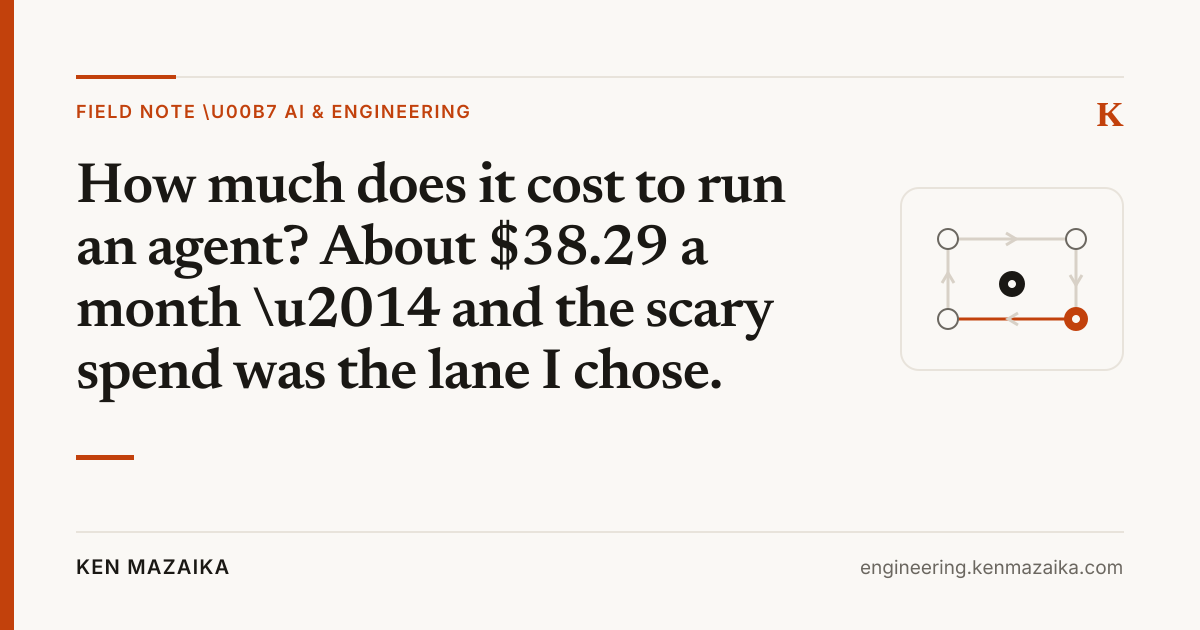
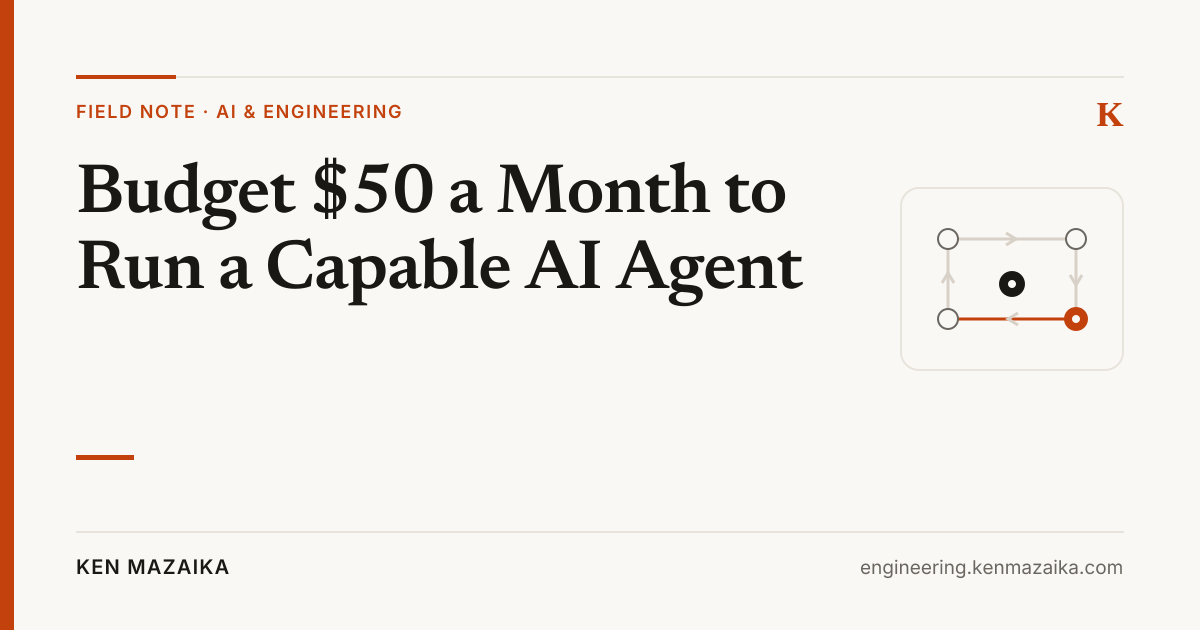
Two cost posts, two spines: 175 = getting-started/production env; cost = $50/mo recurring; cross-reference sections; start-page split

Changed region(s): [[0.0617, 0.2413, 0.6783, 0.6333], [0.1542, 0.1508, 0.4008, 0.2111]]

diff --git a/src/content/blog/my-175-ai-agent-rig.md b/src/content/blog/my-175-ai-agent-rig.md
@@ -1,104 +1,126 @@
 ---
-title: "How Much Does It Really Cost to Run an AI Agent? My $175 Rig, Measured"
-description: "I run my AI agent 24/7 on a used $175 computer. The real bill: $175 once for hardware, $20/month for a subscription I already had, ~$10-15 in routine metered months, $60.49 in the month I actually measured — plus ~$21/month for search. Here's the honest breakdown and what the agent does to earn it."
-seoTitle: "What Running an AI Agent 24/7 Actually Costs: A Real Measured Bill"
-socialTitle: 'My $175 AI Agent Rig: What It Really Costs'
+title: "The $175 Production Box I Use to Run an AI Agent 24/7"
+description: "The useful part of my AI agent setup is not the hardware. It is a cheap machine that stays awake, keeps its work, runs on a schedule, and lets me teach a job once instead of repeating it forever."
+seoTitle: "How to Run an AI Agent 24/7 on a $175 Used Computer"
+socialTitle: "You Don't Need a GPU to Run an AI Agent 24/7"
 pubDate: 'Aug 22, 2026'
-updatedDate: 'Aug 30, 2026'
+updatedDate: 'Oct 5, 2026'
 related:
   - title: 'My Default Model Stack for AI Agent Work'
     url: '/blog/my-default-model-stack-for-ai-agent-work/'
+  - title: 'What It Costs to Run a Capable AI Agent Each Month'
+    url: '/blog/cost-to-run-an-agent/'
   - title: 'Which AI Model Should You Run for Agent Work?'
     url: '/blog/best-ai-model-for-agent-work/'
 ogCategory: 'Field Note · AI & Engineering'
 showPopup: true
 faq:
-  - question: "How much does it cost to run an AI agent?"
-    answer: "A used $175 computer for the hardware (one-time), plus a $20/month subscription (that I already had), plus roughly $10-15/month in routine metered model usage — or $60.49 in the month I actually measured. Search adds about $21/month. Hardware is one-time; the variable is how much real work you do."
+  - question: "What hardware do I need to run an AI agent 24/7?"
+    answer: "For my cloud-model workflows, a used Dell OptiPlex with 16GB of RAM and Linux is enough. The important requirement is that the machine stays awake and connected, not that it has a GPU."
+  - question: "What makes an AI agent setup production-grade?"
+    answer: "For this kind of personal agent, production-grade means availability and reliability: an always-on host, a filesystem it can use, durable memory, scheduled jobs, and a dependable way to reach you. It does not mean expensive hardware."
   - question: "Do I need a GPU or local models to run an AI agent?"
-    answer: "No, for this kind of work. The agent runs 24/7 on a cheap always-on box and uses cloud models. Local inference and GPU cost are excessive when a used computer plus cheap per-token cloud models do the job. Availability matters more than horsepower."
-  - question: "What's the honest gap between a routine month and a real month?"
-    answer: "A routine month is about $10-15 in metered model usage. A real month — new models, vision work, a research binge — is $60.49. Both are real. If your budget needs one number, use the bigger one and be pleasantly surprised."
-  - question: "Is a $175 rig really enough?"
-    answer: "Yes, if the agent runs on cloud models and just needs to be awake. I tried a cheaper thin client first and it struggled; people run agents on Raspberry Pis. $175 is where it worked for me."
-  - question: "What can a cheap 24/7 agent actually do?"
-    answer: "In my case: daily apartment scouting, Airbnb expense logging, dictation-to-drafts, a Sunday newsletter from Reddit/Twitter research, and one-off research. Each is teach-once, then it just runs."
-  - question: "Is an autonomous agent loop worth it?"
-    answer: "Generally no — unfettered loops are AI going in circles. What works reliably is narrow loops with well-defined goals and triggers (cron, scheduled, when-X-then-Y) that grind to a decision and then hand off to a human."
+    answer: "No, not for the work described here. My agent uses cloud models, so the local machine mostly provides uptime, storage, scheduling, and access to tools."
+  - question: "What can a cheap always-on AI agent actually do?"
+    answer: "Mine has scouted apartments, logged Airbnb expenses, turned dictation into drafts, assembled a Sunday industry digest, and handled one-off research. Each workflow started as one useful job with a narrow trigger and a human decision at the end."
+  - question: "How should I get started with an AI agent?"
+    answer: "Pick one repeated task you already understand, teach the agent how you judge a good result, save the instructions, and run it on a narrow trigger. Add a schedule only after the manual version works."
 ---
 
-I run my AI agent 24/7 on a used $175 computer. The real bill: **$175 once for hardware, $20/month for a subscription I already had, and metered usage that ran about $10-15 in routine months — but $60.49 in the month I actually measured**, plus about $21/month for search. Here's the honest breakdown and what the agent does to earn it.
+If you want to run an AI agent for real work, start with a cheap computer that never goes to sleep and one task worth teaching it. That is enough to get into production.
 
-> **Setup note:** I measured this setup on Hermes in August 2026. I've since started moving the same rig and workflows to OpenClaw. The hardware and bills below are unchanged; once I have enough real OpenClaw usage to compare honestly, I'll publish that as the next chapter.
+My agent runs 24/7 on a used Dell OptiPlex I bought on Facebook Marketplace for $175. It has 16GB of RAM, runs Linux, and has no GPU. I started these workflows on Hermes and have since been moving them to OpenClaw, but the useful part of the setup has stayed the same: the box is always there, its files survive between conversations, and scheduled work runs whether my laptop is open or not.
 
-Until I signed a lease, every morning at 8am I got an email with one to three apartments worth a look. Each one is already filtered by school district, commute time, budget, bedrooms, and whether the photos show decent light. When I pay the cleaner for the Airbnb, I send one line and it lands in Google Sheets. My LinkedIn content starts as dictated rambling and comes back as drafts.
+That is what I mean by production-grade. Not a rack of servers. Not local inference. Availability and reliability for the work I actually ask it to do.
 
-All of it runs on a used Dell OptiPlex I bought on Facebook Marketplace for $175.
+## The first requirement is availability
 
-I'm not an AI researcher. I'm just an engineering manager. During the period measured here, the agent was Hermes. It sat in my house for months, and I mostly talked to it over Telegram.
+My agent used to live on my laptop. That worked until I closed the lid.
 
-## The real bill
+When the laptop slept, the agent stopped replying. Morning jobs did not run. A request I sent while I was away waited for me to reopen the computer. The model was capable, but the system around it was unreliable.
 
-The hardware is the smallest line: $175, once. The monthly cost has two parts — a subscription and metered usage — and here's the honest version, estimate and measurement side by side:
+An agent that sleeps when you close the lid is a chat session with extra steps.
 
-| Line | Cost | Notes |
-|---|---|---|
-| Hardware, one time | $175 | Used Dell OptiPlex, 16GB RAM, Linux, Facebook Marketplace |
-| ChatGPT subscription | $20/mo | ~80% of my inference. Paid it before the agent existed. |
-| Metered models, routine use | ~$10-15/mo | DeepSeek Flash workhorse, Xiaomi MiMo second. Cheap per token. |
-| Search | ~$21/mo | The agent's web research. Real usage, last 30 days. |
-| Measured 30-day reality | $60.49 | My actual workload. Not an estimate, not a benchmark. |
+The first upgrade was not a smarter model. It was giving the agent a machine whose job was to remain available. That changed the relationship. I could send it something from my phone, expect a scheduled job to run at 8am, or let a longer research task finish without keeping my work laptop awake on a desk.
 
-The gap between the last rows is the honest part of this post. A routine month is cheap. A real month — new models, vision work, a research binge — costs more. If your budget needs one number, use the bigger one and be pleasantly surprised.
+For my workflows, uptime matters more than horsepower. The models run in the cloud. The local computer coordinates the work, keeps the files, calls tools, and waits for the next trigger. Those are modest computing requirements, but they are real operational requirements.
 
-Then there's search. The agent researches constantly — Reddit threads, pricing pages, sources for its Sunday newsletter — and that runs through a search API at about $21 for 30 days of real usage.
+## The $175 production box
 
-That's the estimate. Here's the measurement.
+The machine is a used Dell OptiPlex with 16GB of RAM and Linux. I paid $175 for it once.
 
-In [the battery post](/blog/best-ai-model-for-agent-work/), eleven models reconstructed my actual bill from my own usage data, and the ones that got the accounting right converged on $60.49 for 30 days. That number is my real usage — not the cost of running the test.
+No Mac Mini. No GPU. No local models. I am not arguing that those things are useless. I am saying they do not solve the problem I had. My problem was that the agent disappeared when my laptop went to sleep.
 
-Which models, and why, is [its own post](/blog/my-default-model-stack-for-ai-agent-work/). The one-line version: a frontier subscription for polish, a cheap workhorse for volume.
+I tried to spend even less first. I bought a Wyse thin client for a fraction of the price, fought with the Linux Mint install, and eventually gave up. People run agents on Raspberry Pis, so $175 is not a minimum. It is the point where this became boring and dependable for me.
 
-## Why a used box
+That is a better standard for starter hardware than maximum theoretical performance: can I install the system, leave it running, replace it cheaply, and stop thinking about it?
 
-The agent used to live on my laptop, and that worked fine until I closed the lid. When the lid closed, the agent stopped replying. An agent that goes to sleep every time you shut a laptop isn't much of an agent.
+The OptiPlex clears that bar. It is common hardware, easy to find used, and powerful enough to coordinate cloud-model work. If it dies, I can replace the machine without redesigning the whole setup. The agent's durable work lives in files and configuration, not in some magical property of this particular computer.
 
-The lesson wasn't that I needed more horsepower. It's that I needed availability: a machine that is on 24/7 and answers whenever I send it something. A used OptiPlex with 16GB of RAM and Linux does that for $175.
+## What production-grade means for an agent
 
-No Mac Mini. No GPU. No local models. For the work I do, the cost of local inference and GPUs is excessive. The cheap box isn't a compromise — the agent just needs to be awake.
+For a personal agent doing real work, I need five things:
 
-I didn't start at $175, either. I tried a Wyse thin client first, at a fraction of the price, and it struggled with the Linux Mint install until I gave up on it. I'm sure this can be done cheaper; people run agents on Raspberry Pis. The $175 OptiPlex is where it worked for me.
+1. **An always-on host.** The machine stays awake, connected, and ready to receive work.
+2. **A filesystem it owns.** Drafts, source material, scripts, receipts, and intermediate work need a stable place to live.
+3. **Schedules and triggers.** Cron can start a job at 8am or every Sunday without waiting for me to remember it.
+4. **Durable memory.** Decisions and instructions have to survive beyond one model conversation. I keep them in files the agent can read again.
+5. **A way to reach me.** The system needs a dependable channel for requests, results, and failures. I have mostly used Telegram and Discord.
 
-When I posted the setup, one comment said a cheap rig isn't a flex if you're not running local models. Fair. But you don't need local models for this work, and availability matters more than horsepower. The price was never the point.
+None of those requirements calls for a GPU. They call for a small amount of infrastructure and the discipline to keep the important state outside the model's context window.
 
-## What the agent actually does
+This is a deliberately bounded definition of production-grade. I am not running a bank, and I am not claiming a used desktop has enterprise redundancy. I am running personal workflows where a missed job is annoying, files need to persist, and the agent should answer when I contact it. The setup is reliable enough for that job.
 
-**Apartment scouting.** Every morning at 8am, the agent pulled new rental listings and filtered them: school district, commute time (it called the Google Maps API to estimate my drive), bedrooms, budget, and the lighting in the photos. About 120 listings became one to three in an email, all places that looked better than where I live now. The hard part of apartment hunting was never booking the viewing — it was finding the gems in the pile. That's the part I gave away.
+## Teach it once, then schedule it
 
-One person on that thread said they burned $50 in tokens trying to get an agent to scrape Zillow and got nothing for it. The lesson, I think, is that scouting is filtering, not scraping. My agent doesn't crawl the whole site. It narrows the firehose to the few listings worth my morning. The agent curates. I decide.
+The hardware keeps the agent awake. The teach-once habit makes it useful.
 
-That search is over now. I signed a lease on one of the top picks from those emails. The loop didn't choose the apartment — I did. It just made sure the good ones never got lost in the pile.
+When I give the agent a repeated job, I do not want to re-explain the whole process every time. I run the task with it, correct the places where its judgment differs from mine, and save the instructions as a skill or workflow. Once the manual version works, I give it a narrow trigger: a message, a new item to process, or a cron schedule.
 
-**Expense logging.** I run an Airbnb. "I paid the cleaner $160" becomes a row in Google Sheets. Five minutes of friction I never deal with again.
+That is the production pattern:
 
-**Content.** I set up a Wispr dictation topic: I talk, it transcribes, formats, and pushes back on my ideas, and I repurpose the output. Same with LinkedIn infographics and social cards — I hand it an idea plus an example of the style, we go back and forth a few times, and it ships something good. It's output I'd never produce by hand, because the effort was never worth it.
+1. Pick one job you already do repeatedly.
+2. Show the agent the inputs and what a good result looks like.
+3. Correct its mistakes while the workflow is still manual.
+4. Save those decisions in durable instructions.
+5. Add a narrow trigger and a clear stopping point.
 
-**The Sunday email.** A skill called last-30-days surfaces the most-upvoted and most-controversial posts on Reddit and Twitter from the past month, and the agent writes up what the industry is actually arguing about. It lands Sunday mornings. I curate it lightly and it goes out as my newsletter. I would never read all those threads myself. Now I don't have to.
+The important word is *narrow*. “Help me manage my life” is not a job. “At 8am, find new apartment listings, apply these filters, and send me the best three” is a job. The trigger is obvious, the output is inspectable, and I remain responsible for the decision.
 
-**One-off research.** Before running a book promo with a specific vendor, I had the agent crawl the 18 or so Reddit posts about them and normalize everyone's experience into one table: who succeeded, who failed, what they'd do differently. It didn't change my decision much. It changed my confidence in the decision — I'd seen all the sources, not just the few that happened to surface.
+## What runs on the box
 
-## What doesn't work: loops
+The workflows matter because they are receipts that this setup does real work. They are not a catalog of everything an agent could theoretically do.
 
-The idea going around the internet is the autonomous loop: the agent finds the bugs, files the tickets, implements, opens the PR, reviews itself, ships, and moves on. In practice, unfettered loops are AI going in circles — building a bunch of trash, whether that's content nobody reads or code somebody has to maintain.
+**Apartment scouting.** Until I signed a lease, the agent checked new rental listings every morning at 8am. It filtered about 120 listings by school district, commute time, budget, bedrooms, and the light visible in the photos. One to three places reached my inbox. I signed a lease on one of its top picks. The agent did not choose my apartment; it kept the good options from disappearing into the pile.
 
-Narrow loops with well-defined goals can work. What works reliably for me is triggers: cron jobs, scheduled emails, when X happens, do Y. The agent grinds until it reaches a decision, then stops and hands it to a human. The human bottleneck isn't something to optimize away. It's where judgment lives.
+**Expense logging.** I run an Airbnb. I send “I paid the cleaner $160,” and the agent turns it into a row in Google Sheets. It is a small workflow, which is exactly why it works: one input, one destination, no interpretation theater.
 
-## The unlock
+**Dictation into content.** I talk through an idea in a dedicated dictation topic. The agent transcribes it, shapes the argument, pushes back on weak parts, and turns it into material I can revise. The value is not autonomous publishing. It is removing the blank page and preserving the thought while it is fresh.
 
-Teach it to do something once. Save it as a skill or a cron job. Let it run on a schedule. Stop thinking about it.
+**The Sunday digest.** A saved workflow finds the most-upvoted and most-controversial discussions from the previous month on Reddit and Twitter, then drafts a digest of what the industry is arguing about. It lands on Sunday morning. I curate it before it becomes a newsletter.
 
-Everything above is some version of that pattern, plus the occasional message from me. Each job is teach-once, and then it just runs.
+**One-off research.** Before I ran a book promotion with a vendor, I had the agent collect roughly 18 Reddit posts and normalize the experiences into a table: who succeeded, who failed, and what they would do differently. The research did not make the decision for me. It let me make the decision after seeing the evidence in one place.
 
-None of these things are life-changing individually. But together, it's a layer of operational infrastructure that makes your life measurably less tedious. The $175 setup replaced a handful of apps along the way.
+Each workflow follows the same shape: teach the judgment, preserve the instructions, run from a narrow trigger, and put a human at the end.
 
-$175 once. $20 a month for a subscription I already had. Maybe $10-15 in metered usage in routine months, $60.49 in the measured one, and about $21 a month for search. That's the whole bill for an agent that answers every time I send it something.
+## Where autonomy breaks down
+
+The seductive version of agent work is the unfettered loop: find a problem, plan the work, execute it, review it, and keep going forever. In my experience, that produces motion faster than it produces value.
+
+An unconstrained agent can make content nobody reads or code somebody has to maintain. Giving the loop more time does not fix a vague goal. It just lets the mistake compound unattended.
+
+Narrow loops work better. A scheduled job starts from a known trigger, works toward a defined artifact, stops at a boundary, and hands the result to me. Apartment scouting ends with a short list. Research ends with a table. Dictation ends with a draft. The human bottleneck is not a defect in these workflows. It is where judgment lives.
+
+The important startup receipt here is the box: $175, once. You can begin without a GPU, local models, or a larger hardware budget. The recurring bill is a separate question, and it has its own post.
+
+## What does it cost to run every month?
+
+Setting up is one-time; running it is a monthly line. **What does it cost to run an agent month to month?** For me, about **$50 a month** — a subscription plus a metered workhorse, with an optional premium lane I can decline. Where that number comes from, and the two things that move it, is its own post: [How Much Does It Cost to Run a Capable AI Agent Each Month?](/blog/cost-to-run-an-agent/).
+
+## Start with one useful loop
+
+Do not begin by designing an all-purpose autonomous employee. Buy or repurpose a machine you can leave on, install the agent harness, and choose one repeated task whose output you already know how to judge.
+
+Run it manually first. Write down every correction that should apply next time. Save those corrections with the workflow. Only then put it on a schedule.
+
+That is enough to get started: a box that stays awake and a habit of teaching work once. The production system is not the computer by itself. It is the computer, the durable instructions, the trigger, and the moment where the agent stops and gives the work back to you.

diff --git a/src/content/blog/cost-to-run-an-agent.md b/src/content/blog/cost-to-run-an-agent.md
@@ -1,100 +1,113 @@
 ---
-title: "How Much Does It Cost to Run an AI Agent? My 30-Day Receipt"
-description: "My normal setup cost $50.93: a $20 ChatGPT premium subscription plus $30.93 of metered DeepSeek. Another $84.07 was optional premium experimentation. Here is what each number measures, which work belongs on each meter, and how I keep the bill bounded."
-seoTitle: "How Much Does It Cost to Run an AI Agent? A 30-Day Cost Breakdown"
-socialTitle: "How much does it cost to run an agent? About $50.93 a month — and the scary spend was the lane I chose."
+title: "How Much Does It Cost to Run a Capable AI Agent Each Month? About $50"
+description: "My 30-day receipt says the durable budget is $50.93: $20 for plan access and $30.93 for a metered workhorse. The expensive month starts when premium routing or unattended jobs escape their own limits."
+seoTitle: "How Much Does It Cost to Run an AI Agent Each Month?"
+socialTitle: "Budget $50 a Month to Run a Capable AI Agent"
 pubDate: 'Oct 5, 2026'
 updatedDate: 'Oct 5, 2026'
 ogCategory: 'Field Note · AI & Engineering'
 layoutVariant: harness
 heroImage: ../../assets/headers/cost-to-run-an-agent-masthead-totem.png
 related:
-  - title: "How Much Does It Really Cost to Run an AI Agent? My $175 Rig, Measured"
-    url: "/blog/my-175-ai-agent-rig/"
   - title: "Which AI Model Should You Run for Agent Work? 11 Models, 5 Real Tasks, Receipts"
     url: "/blog/best-ai-model-for-agent-work/"
+  - title: "The $175 Box I Use to Run an AI Agent 24/7"
+    url: "/blog/my-175-ai-agent-rig/"
   - title: "Hermes vs OpenClaw: Why I Moved My Main Workflow (Test Data Included)"
     url: "/blog/hermes-vs-openclaw/"
 faq:
-  - question: "How much does it cost to run an AI agent per month?"
-    answer: "My normal operating setup costs $50.93 over a 30-day window: a $20 ChatGPT premium subscription plus $30.93 of metered DeepSeek. Optional premium experimentation added $84.07 of prepaid Grok credit on top."
+  - question: "How much should I budget to run a capable AI agent each month?"
+    answer: "I would budget about $50 a month for capable, heavy personal use. My normal operating setup was $50.93: a $20 ChatGPT premium subscription plus $30.93 of metered DeepSeek usage."
   - question: "Why did 1.75 billion tokens cost only $30.93?"
-    answer: "Because most of it was reused context. The DeepSeek meter shows 1.75 billion tokens across 14,347 requests, and cache reads cost a fraction of fresh input — so a huge token count stayed a small bill."
-  - question: "Is OpenClaw free to run?"
-    answer: "The harnesses are free and open source; the cost is the models behind them. In this setup the normal route ran about $50.93 a month, including the ChatGPT plan I already had."
-  - question: "What's the biggest hidden cost of running an agent?"
-    answer: "Scheduled jobs and retry loops. Cron produced 222 million tokens across 167 runs and 19 jobs, and three jobs were 77% of that. A loop that fails without advancing its cursor just buys the same failure again."
-  - question: "How do you keep agent costs from getting out of control?"
-    answer: "Three controls: turn auto-recharge off, cap loops and advance failures, and review unattended jobs monthly by tokens and by whether anyone read the output."
+    answer: "Most of the traffic was cached context. Cache reads cost a fraction of fresh input, so the raw token total looked enormous while the metered bill stayed small."
+  - question: "What makes an AI agent bill exceed $50 a month?"
+    answer: "In my month, the two movers were an optional premium lane and unattended work. Grok experimentation added $84.07, while scheduled jobs and retry loops could keep spending after the output stopped being useful."
+  - question: "How do you keep an agent bill bounded?"
+    answer: "Turn auto-recharge off, cap loops and advance failures, and review unattended jobs monthly by tokens and by whether anyone read the output."
 ---
-The short answer is **$50.93 a month** for my normal operating setup: my **$20 ChatGPT premium subscription** plus **$30.93 of metered DeepSeek use**. I already had the ChatGPT subscription, so if you run the same plan, the number that changes for you is the **$30.93** meter. I use the premium model until it rate-limits, then fall back to DeepSeek V4 for the rest.
+Budget **about $50 a month** to run a capable AI agent. My normal operating setup cost **$50.93**: a **$20 ChatGPT premium subscription** plus **$30.93 of metered DeepSeek use**.
 
-I also used **$84.07 of prepaid Grok credit** in an optional experimental lane. Put the three lines together and the observed usage is **$135.00** — subscription access, metered use, and prepaid credit, each on its own basis.
+That is the ongoing number I would put in a budget. It paid for heavy personal use: **19 published posts, 183 images, 142 PDFs, 285 sessions, and 8,658 tool calls** from **September 5 through October 5, 2026**. The point is not that every month will land on the same 93 cents. The point is that $50 is a credible operating expectation when routine work stays on a plan-plus-workhorse route.
 
-These are my numbers, from **September 5 through October 5, 2026**. They cover model and subscription usage; hosting, storage, monitoring, and my time sit outside them.
+I spent more than that during the same window. An optional Grok lane added **$84.07**, bringing observed model and subscription usage to **$135.00**. That did not disprove the $50 budget. It showed exactly what sits outside it: premium work I chose to route separately.
 
-The surprising part: **1.75 billion tokens were not the expensive part.** The bill moved when I opted into premium experimentation, or left a job running after it stopped producing anything useful.
+My evidence is one operating window, not a universal price; fresh-context workloads, heavier output, or different provider pricing will move the number.
 
-## My 30-day agent cost
+## Budget $50.93 for the recurring month
 
-| Cost line | Basis | Amount | What it means |
+The useful monthly model has two lines, not one blended total:
+
+| Cost line | Billing basis | Monthly budget | Job |
 |---|---|---:|---|
-| ChatGPT premium subscription | Monthly access cost | $20.00 | The plan I already had; counted here because it powers the setup |
-| DeepSeek V4 | Metered use in this window | $30.93 | The pay-per-token fallback I switch to at the plan's rate limit |
-| **Normal operating setup** | Plan + metered use | **$50.93 / month** | The number to count when the plan belongs in your agent budget |
-| Grok experimental lane | Provider usage against prepaid credit | $84.07 | Optional image/design, search, reasoning, and prompt experimentation |
-| **Observed model/subscription usage** | Three lines, three bases | **$135.00** | Accounting total across mixed bases |
+| ChatGPT premium | Subscription access | $20.00 | Primary route until the plan rate-limits |
+| DeepSeek V4 | Metered usage | $30.93 | Workhorse fallback for the remaining volume |
+| **Normal operating setup** | **Plan + metered workhorse** | **$50.93** | **The recurring number** |
 
-The window included 19 published posts, 183 images, 142 PDFs, 285 sessions, and 8,658 tool calls — the workloads behind these period receipts. I report the period rather than a per-post figure, because other work shared the same receipts.
+I already paid for the ChatGPT plan before I attached agent work to it. I still count it. “I already had the subscription” is useful cash-flow context, but it is not honest cost accounting if the plan powers the setup.
 
-## Which meter applies to your work?
+The $30.93 line is the one that expands and contracts with use. The $20 line buys access. Together they make a durable budget because the subscription handles the first part of the workload and a cheap metered model catches the overflow. I do not need every task to run on the most expensive model available; I need each task to land on a route good enough to finish it.
 
-Price the route, not the agent. I run all of this on OpenClaw and Hermes; the harnesses are free and open source, so the bill is the models behind them. My normal route and premium lane were different work decisions, so I budget them separately: each is its own billing stream (a "meter").
+This post is about the bill that comes back next month, not the one-time setup.
 
-| If the work looks like this | Budget it from |
-|---|---|
-| Routine work on the ChatGPT premium plan, falling back to DeepSeek at the rate limit | The normal-setup line above — then inspect your token mix |
-| Polished-image experiments, plus web/X search or reasoning routed to Grok | A separate premium budget; use a cheaper model for good-enough work |
-| Scheduled jobs and retries | A multiplier on whichever route they use — cap and audit it |
+## Why 1.75 billion tokens were not the cost center
 
-## Why 1.75 billion tokens cost $30.93
+The DeepSeek meter recorded **1.75 billion tokens across 14,347 requests** and charged **$30.93**. The token count looks like the headline. It was not the cost center.
 
-The normal route was cheap because it was mostly reused context.
+Most of that traffic was cached context. An agent repeatedly carries instructions, conversation history, and working material forward. When the provider can reuse that context, a cache read costs a fraction of fresh input. The model still reports a large number of tokens because it processed a large context, but the bill reflects how those tokens were served.
 
-DeepSeek served **1.75 billion tokens across 14,347 requests**. Most of that was cached context — the agent carries forward what the model has already seen, and a cache read costs a fraction of fresh input — so a huge token count stayed a small bill.
-
-If you are on a metered provider that bills cached context cheaply, inspect your token mix before you react to the token total. Fresh context on every turn, more output, or a different provider means a different bill.
+That distinction matters more than the raw total. “How many tokens did the agent use?” is not enough to forecast the next bill. I need to know how many were fresh input, cached input, and output, then apply the provider's price to each category.
 
 ![DeepSeek platform usage for the trailing 30 days](/post-assets/cost-to-run-an-agent/deepseek-usage.png)
-*The DeepSeek meter, straight from the platform dashboard.*
+*The DeepSeek meter for the September 5–October 5 window.*
 
-## What made the observed month expensive
+This is why the normal route can absorb substantial work and still stay near $50. Cached context makes repeated, context-heavy agent work cheaper than the top-line token count suggests. If I force fresh context into every turn, ask for much more output, or switch providers, I should expect a different result.
 
-The premium lane was optional experimentation on top of ordinary agent work. I was mainly chasing more polished images and design, plus web/X search and reasoning. Cheaper models handle good-enough work; I reached for Grok when I wanted the extra finish.
+## Price the route, not the model
 
-| Grok line item | 30-day provider usage |
-|---|---:|
-| Prompt text | $38.50 |
-| Web search (5,600 calls) | $27.87 |
-| Other | $7.84 |
-| Reasoning | $5.20 |
-| X search (933 calls) | $4.66 |
-| **Total** | **$84.07** |
+“Which model do you use?” sounds like a pricing question, but it skips the decision that sets the bill. I price the route: which work runs on subscription access, which spills to the metered workhorse, which earns a premium lane, and which runs unattended.
 
-That table is a billing breakdown: those are the provider's own categories — prompt text, search, reasoning, and other. My web-search usage alone moved from $2.13 in August to $27.87 in the trailing 30-day window — a routing and workload decision the base model's token price never shows.
+| Work route | Meter | Budget decision |
+|---|---|---|
+| Routine interactive work | ChatGPT plan, then DeepSeek fallback | Included in the $50.93 operating budget |
+| Image, search, reasoning, or prompt experiments where I want extra finish | Grok prepaid credit | Optional premium budget, kept separate |
+| Scheduled jobs and retries | Whatever model the job calls | A multiplier that needs its own limits |
 
-## What grows while you are not looking
+The harness is not the useful unit of cost here. The same agent can call a cheap workhorse for one task and a premium model for the next. One name on the chat window can hide three billing streams.
 
-Scheduled work deserves its own line of sight. Cron jobs generated **222 million tokens across 167 runs and 19 jobs.** Three jobs accounted for 77% of that. That concentration tells me where to inspect first.
+Keeping those streams separate also makes the monthly number legible. Routine capability cost me $50.93. Premium experimentation cost another $84.07. Calling the whole thing “a $135 agent” would hide the choice I can turn off next month.
 
-One retry storm ran 11 times, used 8.4 million tokens, and produced zero qualified leads (the work that job existed for); it re-picked the same failed offset after every timeout. A job that fails without moving its cursor is buying the same failure again.
+## Two things moved the bill
 
-I also got three $10 receipts in twenty minutes after an image revision loop kept running with auto-recharge enabled. The loop was producing cosmetic variants. I stopped it, and the default was clear: a capped balance beats a convenient automatic top-up.
+The first was premium routing. I used **$84.07 of prepaid Grok credit** for image and design experiments, web and X search, reasoning, and prompt work. That lane was not required to keep the agent useful. I opted into it when I wanted more polish or wanted to test a different route.
 
-## Three controls before you run one
+That is a clean budget decision. Give premium work its own cap, and the normal operating number stays visible. Mix it into the workhorse meter, and a month of experiments starts masquerading as the price of basic capability.
 
-1. **Turn auto-recharge off.** An unattended charge is the classic surprise; a drained balance forces a decision instead.
-2. **Cap loops and advance failures.** An unbounded loop is the second failure class: limit retries, and mark a failed unit tried before moving on.
-3. **Review unattended jobs monthly.** Sort cron work by tokens, and by whether anyone read the output. The unread job is the third, and often the expensive one.
+The second mover was work nobody was watching. Cron generated **222 million tokens across 167 runs and 19 jobs**. Three jobs accounted for 77% of that traffic. Concentration that sharp tells me exactly where to look first.
 
-The normal route, optional premium polish, and unattended work are three different meters. On a cached normal route, routine work stays cheap; premium polish is optional; unattended work makes either route expensive when nobody is watching it. Decide which optional work earns its own budget, then map your work to the meter before you spend.
+One retry storm ran 11 times, spent 8.4 million tokens, and produced zero qualified leads. The job kept selecting the same failed offset after every timeout. It was not doing eleven units of work; it was buying the same failure eleven times.
+
+I saw the same failure shape in an image revision loop. With auto-recharge enabled, it generated three $10 receipts in twenty minutes while producing cosmetic variants. The provider did what I asked. My control was wrong.
+
+Premium routing is an explicit choice. Unattended work becomes an implicit choice unless I bound it. Those are the two paths from a $50 operating month to a $135 observed month.
+
+## Three controls keep the number bounded
+
+I use three controls before adding more agent work:
+
+1. **Turn auto-recharge off.** A drained prepaid balance forces a decision. Automatic top-ups let a bad loop keep converting mistakes into charges.
+2. **Cap loops and advance failures.** Every retry path needs a limit, and a failed unit needs to be marked tried before the job moves on. Otherwise a stuck cursor can repurchase the same failure indefinitely.
+3. **Review unattended jobs monthly.** Sort scheduled work by tokens, then check whether anyone read or used the output. High-volume jobs deserve inspection; unread jobs deserve deletion or a smaller schedule.
+
+These controls do not make the workload free. They make the budget behave like a budget. I can see the normal route, choose a premium allowance, and stop background work from silently consuming either one.
+
+## How much does it cost to set up a production environment?
+
+This post is the bill that comes back. The question *before* it is what it costs to stand up a machine that runs the agent 24/7 in the first place. **How much does it cost to set up a production environment for this?** For me, about **$175**, once — a used desktop with no GPU and no local models. The full getting-started setup is here: [The $175 Production Box I Use to Run an AI Agent 24/7](/blog/my-175-ai-agent-rig/).
+
+## The monthly budget I would use
+
+For capable, heavy personal use, I would start with **$50 a month**: $20 for plan access and about $30 for a cached, metered workhorse. I would not bury premium experiments inside that number. I would give them a separate prepaid cap and decide whether the extra finish earned the extra money.
+
+Then I would audit scheduled work as its own route. The danger is not that an agent occasionally uses a lot of tokens. My 1.75 billion-token month shows why that number alone can mislead. The danger is paying premium prices by habit or letting a job repeat after it has stopped advancing.
+
+The recurring number is credible because its boundaries are visible. **$50.93** bought the normal operating setup. **$84.07** bought an optional premium lane. The gap between them is not mystery spend. It is a routing decision I can make again next month—or decline.
